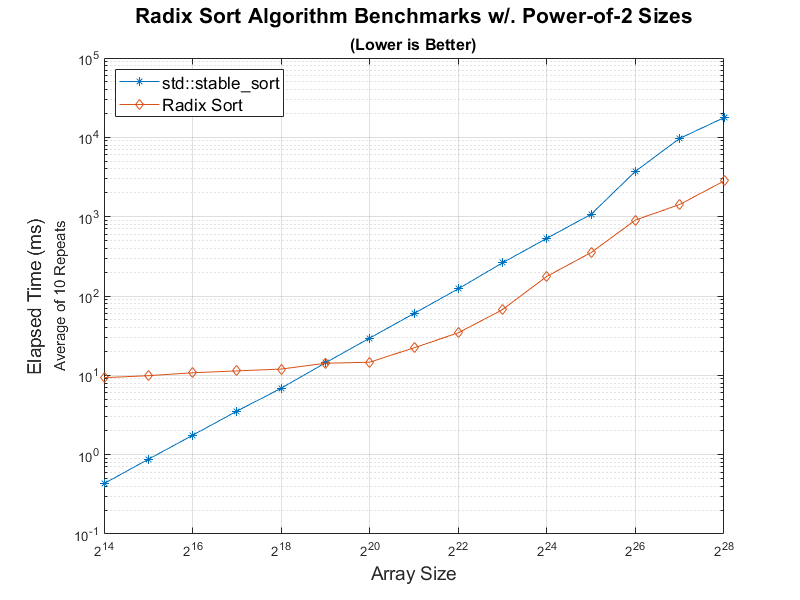
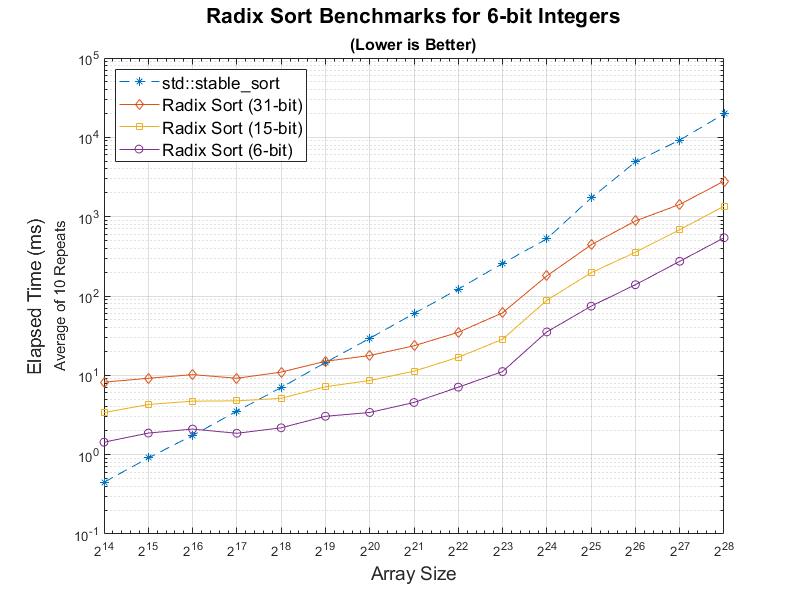
Update benchmarks and analysis

diff --git a/src/main.cpp b/src/main.cpp
@@ -17,12 +17,12 @@
 
 #define BENCHMARK 0
 #if BENCHMARK
-
-void benchmark_powerOfTwo(int repeat)
+void benchmark_scan_powerOfTwo(int repeat)
 {
-    std::cout << "**********************************\n";
-    std::cout << "***** power-of-2 (repeat=" << std::setw(2) << repeat << ") *****\n";
-    std::cout << "**********************************\n";
+    std::cout << "***************************************\n";
+    std::cout << "***** scan power-of-2 (repeat=" << std::setw(2) << repeat << ") *****\n";
+    std::cout << "***************************************\n";
+    std::cout << "Elapsed Time (ms) [Lower is Better]\n";
     std::cout << std::setw(2) << " p\t";
     std::cout << std::setw(12) << "CPU\t";
     std::cout << std::setw(12) << "GPU Naive\t";
@@ -70,11 +70,12 @@ void benchmark_powerOfTwo(int repeat)
     }
 }
 
-void benchmark_nonPowerOfTwo(int repeat)
+void benchmark_scan_nonPowerOfTwo(int repeat)
 {
-    std::cout << "**************************\n";
-    std::cout << "***** non-power-of-2 *****\n";
-    std::cout << "**************************\n";
+    std::cout << "*******************************\n";
+    std::cout << "***** scan non-power-of-2 *****\n";
+    std::cout << "*******************************\n";
+    std::cout << "Elapsed Time (ms) [Lower is Better]\n";
     std::cout << std::setw(2) << " p\t";
     std::cout << std::setw(12) << "CPU\t";
     std::cout << std::setw(12) << "GPU Naive\t";
@@ -125,13 +126,15 @@ void benchmark_nonPowerOfTwo(int repeat)
 
 void benchmark_stream_compaction(int repeat)
 {
-    std::cout << "**********************************\n";
-    std::cout << "***** power-of-2 (repeat=" << std::setw(2) << repeat << ") *****\n";
-    std::cout << "**********************************\n";
+    std::cout << "********************************************\n";
+    std::cout << "***** compaction power-of-2 (repeat=" << std::setw(2) << repeat << ") *****\n";
+    std::cout << "********************************************\n";
+    std::cout << "Elapsed Time (ms) [Lower is Better]\n";
     std::cout << std::setw(2) << " p\t";
     std::cout << std::setw(12) << "CPU Compaction w/o. Scan\t";
     std::cout << std::setw(12) << "CPU Compaction w/. Scan\t";
     std::cout << std::setw(12) << "GPU Compaction with Work-Eff Scan\t";
+    std::cout << std::setw(12) << "GPU Compaction with thrust::remove_if\n";
     // Test on different sizes
     for (int p = 8; p < 26; ++p)
     {
@@ -139,7 +142,7 @@ void benchmark_stream_compaction(int repeat)
         int* a = new int[SIZE];
         int* b = new int[SIZE];
 
-        float elapsedTimes[3] = { 0.f, 0.f, 0.f};
+        float elapsedTimes[4] = { 0.f, 0.f, 0.f, 0.f};
 
         genArray(SIZE - 1, a, 50);  // Leave a 0 at the end to test that edge case
         a[SIZE - 1] = 0;
@@ -157,12 +160,17 @@ void benchmark_stream_compaction(int repeat)
             zeroArray(SIZE, b);
             StreamCompaction::Efficient::compact(SIZE, b, a);
             elapsedTimes[2] += StreamCompaction::Efficient::timer().getGpuElapsedTimeForPreviousOperation();
+
+            zeroArray(SIZE, b);
+            StreamCompaction::Thrust::compact(SIZE, b, a);
+            elapsedTimes[3] += StreamCompaction::Thrust::timer().getGpuElapsedTimeForPreviousOperation();
         }
 
         std::cout << std::setw(2) << p << "\t";
         std::cout << std::setw(11) << elapsedTimes[0] / repeat << "\t";
         std::cout << std::setw(11) << elapsedTimes[1] / repeat << "\t";
-        std::cout << std::setw(11) << elapsedTimes[2] / repeat << "\n";
+        std::cout << std::setw(11) << elapsedTimes[2] / repeat << "\t";
+        std::cout << std::setw(11) << elapsedTimes[3] / repeat << "\n";
 
         delete[] a;
         delete[] b;
@@ -171,12 +179,15 @@ void benchmark_stream_compaction(int repeat)
 
 void benchmark_radix_sort(int repeat)
 {
-    std::cout << "***************************\n";
-    std::cout << "******* stable sort *******\n";
-    std::cout << "***************************\n";
+    std::cout << "*************************************\n";
+    std::cout << "******* radix sort benchmarks *******\n";
+    std::cout << "*************************************\n";
+    std::cout << "Elapsed Time (ms) [Lower is Better]\n";
     std::cout << std::setw(2) << " p\t";
-    std::cout << std::setw(16) << "std::stable_sort\t";
-    std::cout << std::setw(12) << "Radix::sort\n";
+    std::cout << std::setw(20) << "std::stable_sort\t";
+    std::cout << std::setw(20) << "Radix::sort 31-bits\t";
+    std::cout << std::setw(20) << "Radix::sort 15-bits\t";
+    std::cout << std::setw(20) << "Radix::sort 6-bits\n";
     // Test on different sizes
     for (int p = 8; p < 29; ++p)
     {
@@ -184,7 +195,7 @@ void benchmark_radix_sort(int repeat)
         int* a = new int[SIZE];
         int* b = new int[SIZE];
 
-        float elapsedTimes[2] = { 0.f, 0.f };
+        float elapsedTimes[4] = { 0.f, 0.f, 0.f, 0.f};
 
         genArray(SIZE - 1, a, 50);  // Leave a 0 at the end to test that edge case
         a[SIZE - 1] = 0;
@@ -196,13 +207,23 @@ void benchmark_radix_sort(int repeat)
             elapsedTimes[0] += StreamCompaction::CPU::timer().getCpuElapsedTimeForPreviousOperation();
 
             zeroArray(SIZE, b);
-            StreamCompaction::Radix::sort(SIZE, b, a);
+            StreamCompaction::Radix::sort(SIZE, 31, b, a);
             elapsedTimes[1] += StreamCompaction::Radix::timer().getGpuElapsedTimeForPreviousOperation();
+
+            zeroArray(SIZE, b);
+            StreamCompaction::Radix::sort(SIZE, 15, b, a);
+            elapsedTimes[2] += StreamCompaction::Radix::timer().getGpuElapsedTimeForPreviousOperation();
+
+            zeroArray(SIZE, b);
+            StreamCompaction::Radix::sort(SIZE, 6, b, a);
+            elapsedTimes[3] += StreamCompaction::Radix::timer().getGpuElapsedTimeForPreviousOperation();
         }
 
         std::cout << std::setw(2) << p << "\t";
-        std::cout << std::setw(15) << elapsedTimes[0] / repeat << "\t";
-        std::cout << std::setw(15) << elapsedTimes[1] / repeat << "\n";
+        std::cout << std::setw(19) << elapsedTimes[0] / repeat << "\t";
+        std::cout << std::setw(19) << elapsedTimes[1] / repeat << "\t";
+        std::cout << std::setw(19) << elapsedTimes[2] / repeat << "\t";
+        std::cout << std::setw(19) << elapsedTimes[3] / repeat << "\n";
 
         delete[] a;
         delete[] b;
@@ -211,10 +232,11 @@ void benchmark_radix_sort(int repeat)
 
 int main(int argc, char * argv[])
 {
-    benchmark_powerOfTwo(10);
-    benchmark_nonPowerOfTwo(10);
-    benchmark_stream_compaction(10);
-    benchmark_radix_sort(10);
+    constexpr int repeat = 10;  // This is very time-consuming
+    benchmark_scan_powerOfTwo(repeat);
+    benchmark_scan_nonPowerOfTwo(repeat);
+    benchmark_stream_compaction(repeat);
+    benchmark_radix_sort(repeat);
 
     return 0;
 }
@@ -353,33 +375,52 @@ int main(int argc, char* argv[]) {
     //printArray(count, c, true);
     printCmpLenResult(count, expectedNPOT, b, c);
 
+    zeroArray(SIZE, c);
+    printDesc("thrust::remove_if compact, power-of-two");
+    count = StreamCompaction::Thrust::compact(SIZE, c, a);
+    printElapsedTime(StreamCompaction::Thrust::timer().getGpuElapsedTimeForPreviousOperation(), "(CUDA Measured)");
+    //printArray(count, c, true);
+    printCmpLenResult(count, expectedCount, b, c);
+
+    zeroArray(SIZE, c);
+    printDesc("thrust::remove_if compact, non-power-of-two");
+    count = StreamCompaction::Thrust::compact(NPOT, c, a);
+    printElapsedTime(StreamCompaction::Thrust::timer().getGpuElapsedTimeForPreviousOperation(), "(CUDA Measured)");
+    //printArray(count, c, true);
+    printCmpLenResult(count, expectedNPOT, b, c);
+
+    // Sort tests
     printf("\n");
     printf("*****************************\n");
     printf("****** RADIX SORT TESTS *****\n");
     printf("*****************************\n");
 
+    genArray(SIZE - 1, a, 50);  // Leave a 0 at the end to test that edge case
+    a[SIZE - 1] = 0;
+    printArray(SIZE, a, true);
+
     zeroArray(SIZE, b);
-    printDesc("std::stable_sort, power-of-two");
+    printDesc("std::stable_sort, power-of-two, 6 bits");
     StreamCompaction::CPU::sort(SIZE, b, a);
     printElapsedTime(StreamCompaction::CPU::timer().getCpuElapsedTimeForPreviousOperation(), "(std::chrono Measured)");
     printArray(SIZE, b, true);
 
     zeroArray(SIZE, c);
-    printDesc("radix sort, power-of-two");
-    StreamCompaction::Radix::sort(SIZE, c, a);
+    printDesc("radix sort, power-of-two, 6 bits");
+    StreamCompaction::Radix::sort(SIZE, 6, c, a);
     printElapsedTime(StreamCompaction::Radix::timer().getGpuElapsedTimeForPreviousOperation(), "(CUDA Measured)");
     //printArray(SIZE, c, true);
     printCmpResult(SIZE, b, c);
 
     zeroArray(SIZE, b);
-    printDesc("std::stable_sort, non-power-of-two");
+    printDesc("std::stable_sort, non-power-of-two, 6 bits");
     StreamCompaction::CPU::sort(NPOT, b, a);
     printElapsedTime(StreamCompaction::CPU::timer().getCpuElapsedTimeForPreviousOperation(), "(std::chrono Measured)");
     printArray(NPOT, b, true);
 
     zeroArray(SIZE, c);
-    printDesc("radix sort, non-power-of-two");
-    StreamCompaction::Radix::sort(NPOT, c, a);
+    printDesc("radix sort, non-power-of-two, 6 bits");
+    StreamCompaction::Radix::sort(NPOT, 6, c, a);
     printElapsedTime(StreamCompaction::Radix::timer().getGpuElapsedTimeForPreviousOperation(), "(CUDA Measured)");
     //printArray(NPOT, c, true);
     printCmpResult(SIZE, b, c);

diff --git a/stream_compaction/radix.h b/stream_compaction/radix.h
@@ -9,5 +9,6 @@ namespace StreamCompaction
         StreamCompaction::Common::PerformanceTimer& timer();
 
         void sort(int n, int* odata, const int* idata);
+        void sort(int n, int bits, int* odata, const int* idata);
     }
 }

diff --git a/stream_compaction/thrust.h b/stream_compaction/thrust.h
@@ -7,5 +7,6 @@ namespace StreamCompaction {
         StreamCompaction::Common::PerformanceTimer& timer();
 
         void scan(int n, int *odata, const int *idata);
+        int compact(int n, int* odata, const int* idata);
     }
 }

diff --git a/README.md b/README.md
@@ -16,11 +16,15 @@ In this project, I implemented the following features:
 - CPU Scan & Stream Compaction
 - Naive GPU Scan Algorithm
 - Work-Efficient GPU Scan & Stream Compaction
-- Improved the performance of GPU scans with some index calculation tweaks.
-- GPU Scan with `Thrust`
-- GPU **Radix Sort**, and compared it with `std::stable_sort`.
+- GPU Scan and Compaction with `Thrust`
+- [Extra Credit +5] Improved the performance of GPU scans with some index calculation tweaks.
+- [Extra Credit +10] GPU **Radix Sort**, and compared it with `std::stable_sort`.
+- Benchmarking the implementations, repeat tests to get more reliable results.
 
 ## Performance Benchmarks
+
+For each implementation, I tested different block sizes for array `SIZE = 1 << 26` and chose optimized one for them.
+For naive implementation, the block size is `1024`, and for the work-efficient, it is `512`.
 
 ### Scan Algorithms
 
@@ -28,10 +32,134 @@ In this project, I implemented the following features:
 
 ![](img/benchmark-non-power-of-2.png)
 
+From the benchmarks we can find that when the array size is larger than $2^{18}$, 
+GPU algorithms perform better than the CPU implementations.
+When the array size is smaller than $2^{17}$, 
+the GPU algorithms' performance are bottlenecked,
+possibly because of memory overhead.
+As the array size increases, the benefits of massive parallelization become apparent. 
+Additionally, the Work-Efficient algorithm is roughly twice as fast as the Naive implementation. 
+Notably, the Thrust implementation outperforms my implementation by a significant margin.
+
+I believe this automatically meets the requirement of Part 5 extra credits, 
+since I'm avoided calling redundant threads, 
+making the GPU algorithms perform better than the CPU when the array size is large.
+
 ### Stream Compaction
 
 ![](img/benchmark-compaction-power-of-2.png)
 
+For smaller array sizes (up to $2^{17}$), the CPU without Scan implementation outperforms the GPU Work-Efficient algorithm due to lower overhead and the inefficiency of GPU parallelization for small datasets. However, as the array size increases beyond $2^{18}$, the GPU Work-Efficient method starts to leverage its parallel processing capabilities, eventually surpassing the CPU w/o. Scan around $2^{20}$. For larger arrays, the GPU algorithm demonstrates significantly better scalability, with a slower growth in elapsed time compared to the CPU, making it the superior choice for handling large datasets.
+
+I also implemented the stream compaction with `thrust::remove_if`. 
+But after benchmarking, I found it performs exactly like the CPU algorithms.
+And my observation is supported by Nsight Profiling, which warns "No kernels were profiled",
+and that means `thrust::remove_if` runs on the CPU.
+
 ### Radix Sort
 
 ![](img/benchmark-radix-sort.png)
+
+For smaller datasets, std::stable_sort provides better performance. 
+However, as the array size increases, Radix Sort proves to be more efficient, maintaining lower elapsed times and scaling much better with large datasets compared to std::stable_sort, which becomes significantly slower.
+
+The fewer bits the numbers in the array have, the faster Radix Sort will perform. In this test case, the numbers range from 0 to 50, requiring a minimum of 6 bits. If the maximum number (or its bit approximation) in an array is known, Radix Sort can be optimized proportionally, allowing for more efficient sorting.
+
+Radix Sort is implemented in `radix.h` and `radix.cu`. The interfaces for calling the Radix sort are 
+```c++
+void StreamCompaction::Radix::sort(int n, int bits, int* odata, const int* idata);
+void StreamCompaction::Radix::sort(int n, int* odata, const int* idata);  // bits = 31
+```
+
+And it is tested in `main.cpp`, `#define BENCHMARK 1` to run the automatic benchmarks.
+Here is the output for Radix Sort Benchmarks:
+
+![](img/screenshot-radix-sort.png)
+
+
+## Test Program Output
+
+The console output with array `SIZE = 1 << 24`:
+
+```
+****************
+** SCAN TESTS **
+****************
+    [  47  34  40  37   0  23  36  44  21  48  49  48  26 ...  20   0 ]
+==== cpu scan, power-of-two ====
+   elapsed time: 29.0478ms    (std::chrono Measured)
+    [   0  47  81 121 158 158 181 217 261 282 330 379 427 ... 410811186 410811206 ]
+==== cpu scan, non-power-of-two ====
+   elapsed time: 28.7367ms    (std::chrono Measured)
+    [   0  47  81 121 158 158 181 217 261 282 330 379 427 ... 410811143 410811179 ]
+    passed
+==== naive scan, power-of-two ====
+   elapsed time: 8.26326ms    (CUDA Measured)
+    passed
+==== naive scan, non-power-of-two ====
+   elapsed time: 8.32848ms    (CUDA Measured)
+    passed
+==== work-efficient scan, power-of-two ====
+   elapsed time: 4.50995ms    (CUDA Measured)
+    passed
+==== work-efficient scan, non-power-of-two ====
+   elapsed time: 3.71853ms    (CUDA Measured)
+    passed
+==== thrust scan, power-of-two ====
+   elapsed time: 1.42131ms    (CUDA Measured)
+    passed
+==== thrust scan, non-power-of-two ====
+   elapsed time: 1.31478ms    (CUDA Measured)
+    passed
+
+*****************************
+** STREAM COMPACTION TESTS **
+*****************************
+    [   1   0   0   1   0   1   2   2   3   2   1   2   2 ...   0   0 ]
+==== cpu compact without scan, power-of-two ====
+   elapsed time: 33.4106ms    (std::chrono Measured)
+    [   1   1   1   2   2   3   2   1   2   2   3   2   3 ...   2   3 ]
+    passed
+==== cpu compact without scan, non-power-of-two ====
+   elapsed time: 34.1384ms    (std::chrono Measured)
+    [   1   1   1   2   2   3   2   1   2   2   3   2   3 ...   2   2 ]
+    passed
+==== cpu compact with scan ====
+   elapsed time: 94.494ms    (std::chrono Measured)
+    [   1   1   1   2   2   3   2   1   2   2   3   2   3 ...   2   3 ]
+    passed
+==== work-efficient compact, power-of-two ====
+   elapsed time: 5.81114ms    (CUDA Measured)
+    passed
+==== work-efficient compact, non-power-of-two ====
+   elapsed time: 5.72454ms    (CUDA Measured)
+    passed
+==== thrust::remove_if compact, power-of-two ====
+   elapsed time: 35.2823ms    (CUDA Measured)
+    passed
+==== thrust::remove_if compact, non-power-of-two ====
+   elapsed time: 37.1602ms    (CUDA Measured)
+    passed
+
+*****************************
+****** RADIX SORT TESTS *****
+*****************************
+    [   1  32   4  32  15   0  49  17  14   0   1  42  15 ...  16   0 ]
+==== std::stable_sort, power-of-two, 6 bits ====
+   elapsed time: 502.405ms    (std::chrono Measured)
+    [   0   0   0   0   0   0   0   0   0   0   0   0   0 ...  49  49 ]
+==== radix sort, power-of-two, 6 bits ====
+   elapsed time: 34.2919ms    (CUDA Measured)
+    passed
+==== std::stable_sort, non-power-of-two, 6 bits ====
+   elapsed time: 508.689ms    (std::chrono Measured)
+    [   0   0   0   0   0   0   0   0   0   0   0   0   0 ...  49  49 ]
+==== radix sort, non-power-of-two, 6 bits ====
+   elapsed time: 34.576ms    (CUDA Measured)
+    passed
+```
+
+## Modifications To Project Structures
+
+- Added `radix.h` and `radix.cu` to `stream_compaction/`
+- Added the entries of the above files to `stream_compaction/CMakeLists.txt`
